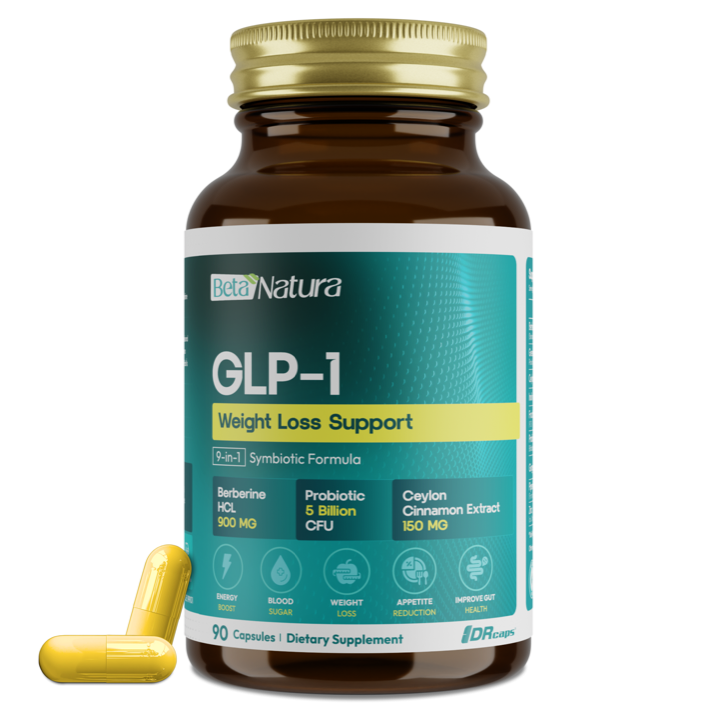
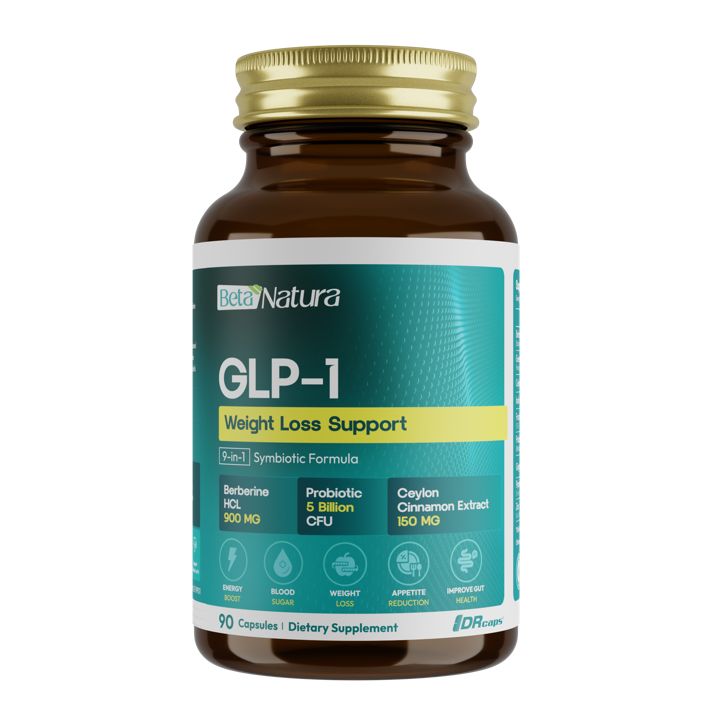
Use 100% transparent Archive 7 bottle cutouts for Hero and Reorder sections

Changed region(s): [[0.0309, 0.0, 0.7714, 0.9778]]

diff --git a/styles.css b/styles.css
@@ -720,14 +720,19 @@ li {
   justify-content: center;
   gap: 0;
   position: relative;
+  max-width: 100%;
+}
+
+.hero-visual-composite .phone-frame {
+  width: min(210px, 54vw);
 }
 
 .hero-bottle-cutout {
-  width: min(175px, 42vw);
-  margin-right: -28px;
-  margin-bottom: 10px;
+  width: min(175px, 46vw);
+  margin-right: -34px;
+  margin-bottom: -8px;
   z-index: 2;
-  filter: drop-shadow(0 20px 34px rgba(0, 0, 0, 0.42));
+  filter: drop-shadow(0 22px 32px rgba(0, 0, 0, 0.48));
 }
 
 .hero-bottle-cutout img {
@@ -737,9 +742,13 @@ li {
 }
 
 @media (min-width: 920px) {
+  .hero-visual-composite .phone-frame {
+    width: 265px;
+  }
   .hero-bottle-cutout {
-    width: 225px;
-    margin-right: -36px;
+    width: 245px;
+    margin-right: -46px;
+    margin-bottom: -10px;
   }
 }
 

diff --git a/index.html b/index.html
@@ -148,11 +148,11 @@
       <div class="phone-mockup-wrap hero-visual-composite">
         <div class="hero-bottle-cutout">
           <picture>
-            <source srcset="assets/bottle-box.webp" type="image/webp">
-            <img src="assets/bottle-box.png"
-                 alt="BetaNatura GLP-1 Weight Loss Support 9-in-1 Symbiotic Formula 90 DRcaps bottle and box"
-                 width="753"
-                 height="760"
+            <source srcset="assets/bottle-hero.webp" type="image/webp">
+            <img src="assets/bottle-hero.png"
+                 alt="BetaNatura GLP-1 Weight Loss Support 9-in-1 Symbiotic Formula 90 DRcaps bottle"
+                 width="720"
+                 height="720"
                  fetchpriority="high">
           </picture>
         </div>
